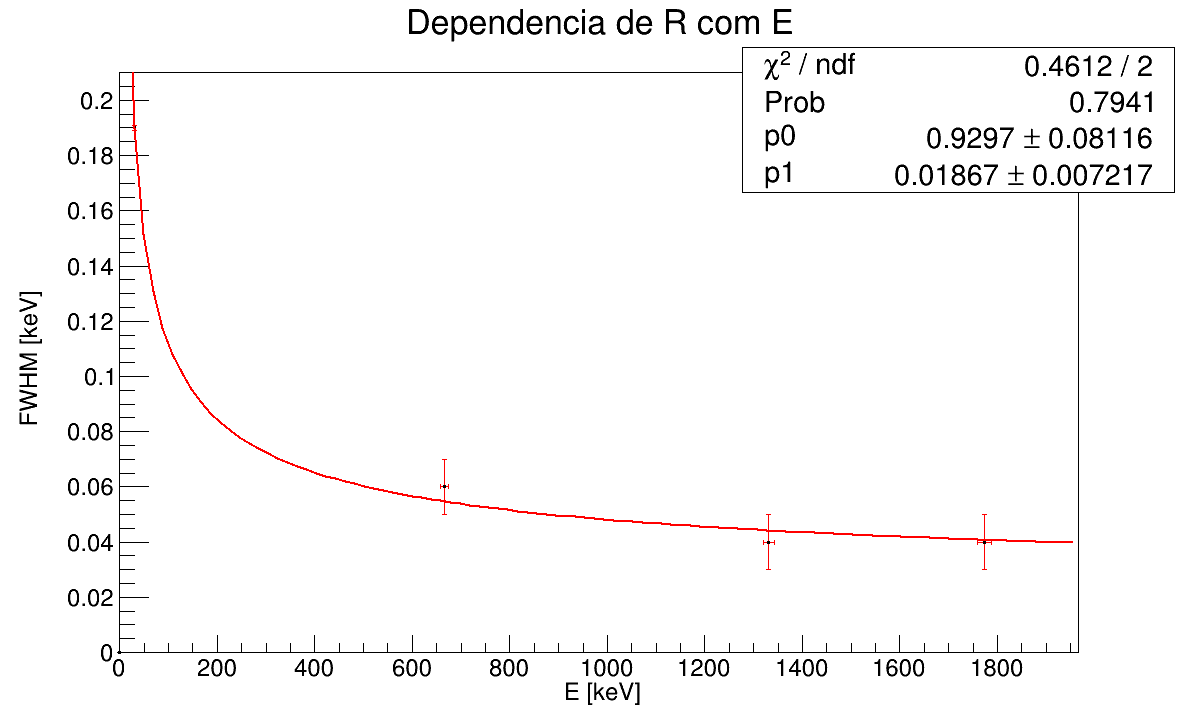
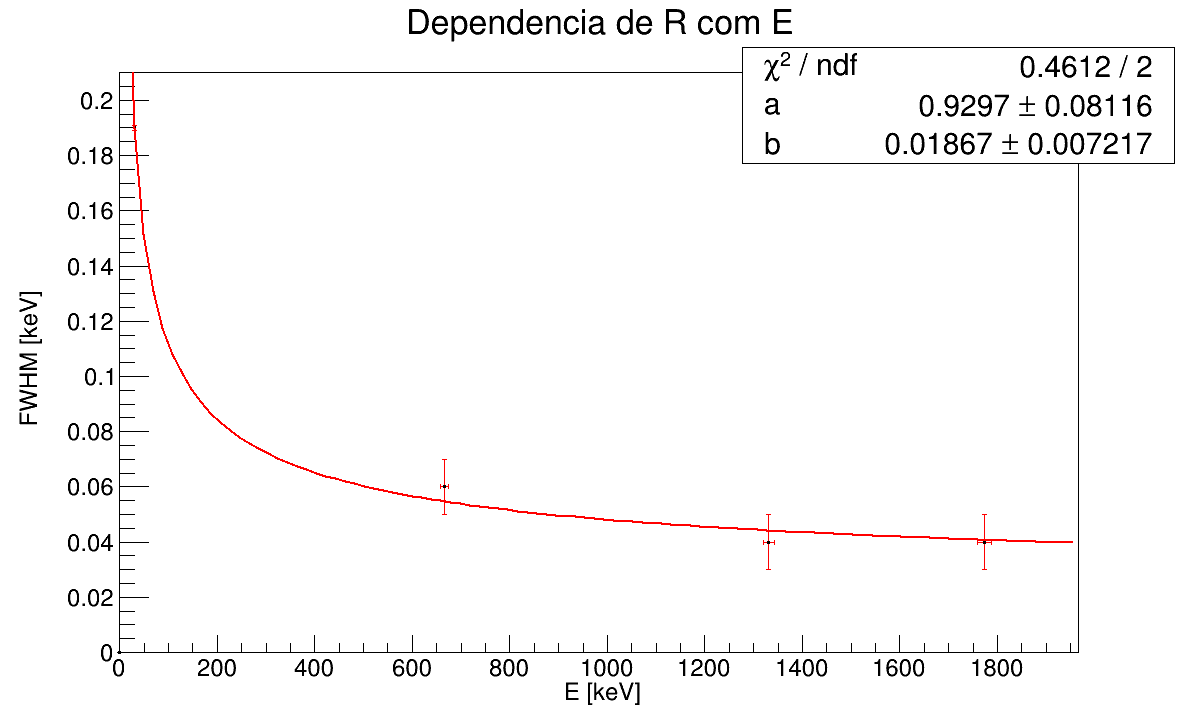
algumas mudancas na analise gama

Changed region(s): [[0.7412, 0.0607, 0.9574, 0.2731], [0.6177, 0.1214, 0.6795, 0.2731], [0.6486, 0.0607, 0.7104, 0.1214]]

diff --git a/Gama/main/Analise.cpp b/Gama/main/Analise.cpp
@@ -551,20 +551,21 @@ int main(){
     TGraph G_Coeficiente_Atenuacao;
     TF1 *co = new TF1("co", "[0]*x+[1]", 0, 1024);
 
-
-    G_Coeficiente_Atenuacao.AddPoint(espessura_fino, log(rad_cs_pb_thin_smoothed[434].second));
-    G_Coeficiente_Atenuacao.AddPoint(espessura_grosso, log(rad_cs_pb_smoothed[434].second));
+    //G_Coeficiente_Atenuacao.AddPoint(espessura_fino, log(rad_cs_pb_thin_smoothed[434].second));
+    //G_Coeficiente_Atenuacao.AddPoint(espessura_grosso, log(rad_cs_pb_smoothed[434].second));
+    G_Coeficiente_Atenuacao.AddPoint(espessura_fino, log(33958));
+    G_Coeficiente_Atenuacao.AddPoint(espessura_grosso, log(19023));
     G_Coeficiente_Atenuacao.SetLineColor(kRed);
     G_Coeficiente_Atenuacao.SetMarkerStyle(20);
     G_Coeficiente_Atenuacao.SetMarkerSize(0.5);
-    G_Coeficiente_Atenuacao.SetTitle("Coeficiente de Atenuacao do Chumbo; Espessura [mg/cm^2]; Counts");
+    G_Coeficiente_Atenuacao.SetTitle("Coeficiente de Atenuac#tilde{a}o do Chumbo; Espessura [mg/cm^{2}]; log(Counts)");
     G_Coeficiente_Atenuacao.GetXaxis()->CenterTitle();
     G_Coeficiente_Atenuacao.GetYaxis()->CenterTitle();
+    co->SetParNames("declive","y_{0}");
     G_Coeficiente_Atenuacao.Fit("co", "");
-
     c1.Clear();
     c1.SetLogy(0);
-    gStyle->SetOptFit(1111);
+    gStyle->SetOptFit(kTRUE);
     G_Coeficiente_Atenuacao.Draw("AP");
     c1.Update();
     c1.SaveAs("Graphs/Coeficiente_Atenuacao.png");
@@ -580,7 +581,7 @@ int main(){
     double ey[5] = {0.001, 0.01, 0.01, 0.01};
     TGraphErrors* G_Resolucao_Energia = new TGraphErrors(5, x, y, ex, ey);
     TF1 *res = new TF1("res", "[0]/sqrt(x)+[1]", 0, 1024);
-    
+    res->SetParNames("a","b");
     G_Resolucao_Energia->SetLineColor(kRed);
     G_Resolucao_Energia->SetMarkerStyle(20);
     G_Resolucao_Energia->SetMarkerSize(0.5);
@@ -591,7 +592,7 @@ int main(){
 
 
 
-    gStyle->SetOptFit(1111);
+    gStyle->SetOptFit(kTRUE);
     c1.Clear();
     c1.SetLogy(0);
     G_Resolucao_Energia->Draw("AP");
@@ -600,7 +601,7 @@ int main(){
     c1.WaitPrimitive();
     gSystem->ProcessEvents();
 
-
+    /*
     vector <double> dist = {0.00635, 0.0127, 0.019, 0.0254, 0.0318, 0.0381};   // em m
     vector <double> inc_dist = {0,0,0,0,0,0};
     vector <double> counts_semdisco = {42280, 26555, 11002, 5650, 3525, 2537};
@@ -631,4 +632,5 @@ int main(){
     b.Update();
     b.WaitPrimitive();
     gSystem->ProcessEvents();
+    */
 }
